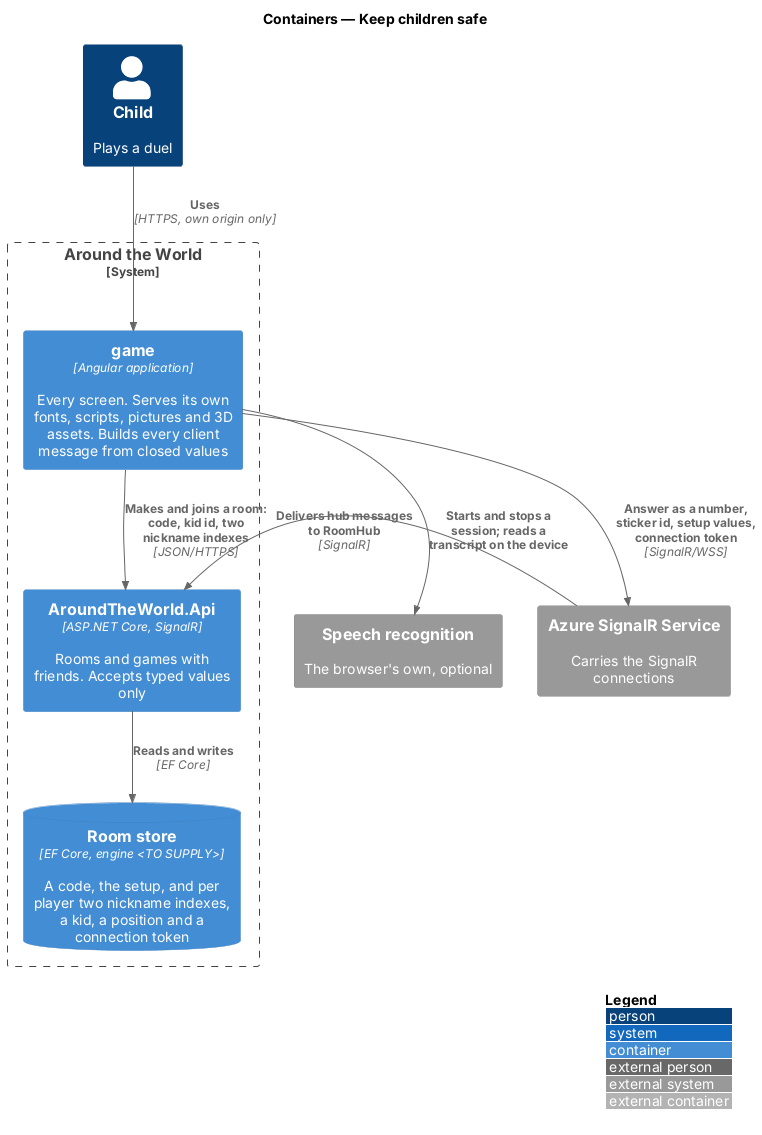
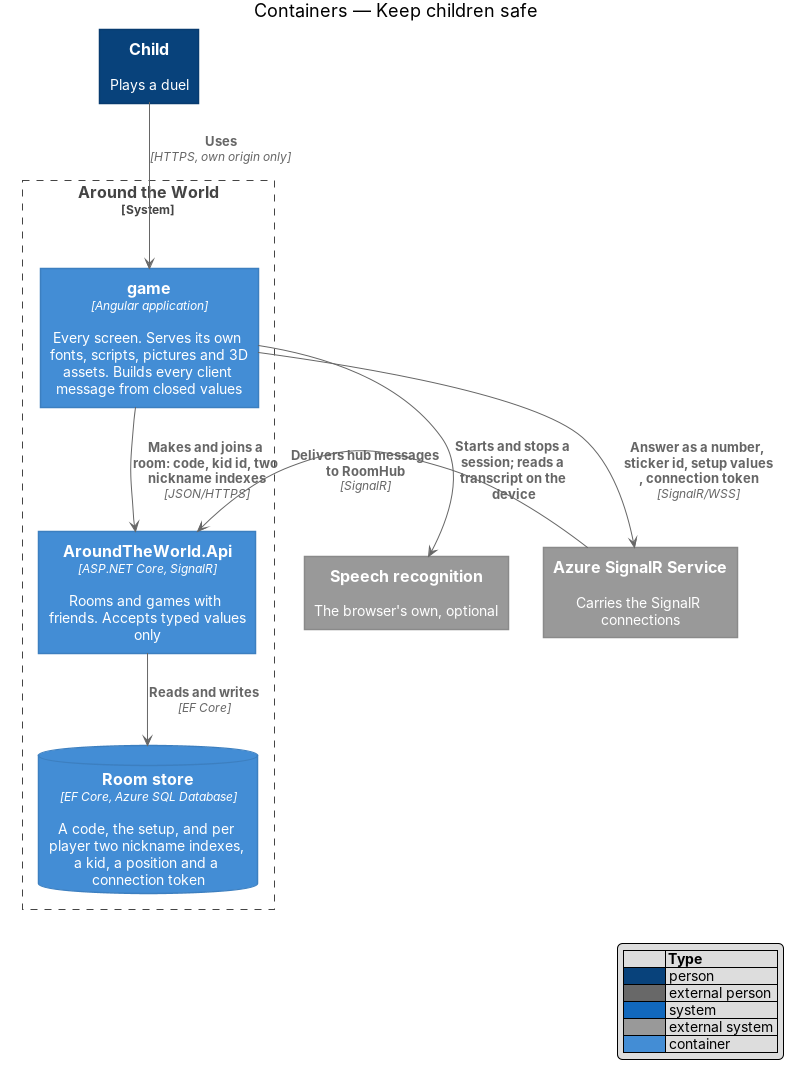
Record the scaffold's decisions and resolve its design markers
Add docs/adr with ten records: the Angular 22 workspace, the .NET 10
backend, npm, the unit test runners, the ESLint boundaries, the shape of
the Playwright fixture, the CI layout, the bundle budgets, the live
endpoint with the room store's engine and the migrations command, and
building each design-system component once in @atw/components. Resolve
the budget, engine, settings-document and migrations markers in the
platform designs, and add docs/operations/settings.md.

Claude-Session: https://claude.ai/code/session_01GLzf8nfvL3UTi3JmWhzWi4

Changed region(s): [[0.0302, 0.0, 0.9961, 0.8644], [0.7546, 0.8644, 0.9961, 1.0], [0.332, 0.0, 0.664, 0.0309]]

diff --git a/docs/detailed-designs/platform/operate-backend/README.md b/docs/detailed-designs/platform/operate-backend/README.md
@@ -53,9 +53,10 @@ The slice is not built yet. The design introduces the parts below.
   Two instances therefore show one game: either can decide an answer, and both notify the same
   group.
 
-Three points of the two-instance design are `<TO SUPPLY>`:
+The room store's engine is Azure SQL Database, through EF Core's SQL Server provider
+(`docs/adr/0009-health-and-migrations.md`). Two points of the two-instance design are
+`<TO SUPPLY>`:
 
-- the room store's engine;
 - how two instances order two answers to one duel that arrive at the same moment, so that
   exactly one wins (`L2-026` criterion 1);
 - which instance runs a room's clock (a flash card's time, the 30 seconds a spot is saved, the
@@ -76,14 +77,17 @@ criterion 2 allows no such request, and no mock decides between them.
 | `Azure:SignalR:ConnectionString` | Connection to Azure SignalR Service. Absent in a local or test run. |
 | `Frontend:Origin` | Origin of the `game` application, the only origin the CORS policy allows (`L2-044` criterion 4). |
 | Rate limits | Limits on making a room, trying codes, answers and stickers (`L2-045`). The setting names are fixed in `docs/detailed-designs/rooms/guard-room/`. |
-| Room store connection | Connection to the room store. Its form follows the engine, which is `<TO SUPPLY>`. |
+| `ConnectionStrings:RoomStore` | Connection to the room store, an Azure SQL Database. Absent in a local or test run. |
 | `OTEL_EXPORTER_OTLP_ENDPOINT` | Address to which telemetry is exported. |
 
 Each setting is read from configuration supplied by the environment. No setting's value is in
 the source, and a connection string or an access key is supplied as a secret. The change that
-adds a setting documents it in the same change. The document that lists the settings is
-`<TO SUPPLY>`: no operations document exists yet, and the first change that adds a setting adds
-it.
+adds a setting documents it in the same change, in `docs/operations/settings.md`.
+
+**Migrations.** The room store's schema changes only through EF Core migrations, which a
+command applies: `dotnet run --project src/AroundTheWorld.Api -- migrate`, run from `backend/`
+before a new version starts. `Program` runs `RoomStoreMigrator` for that command and exits; the
+API's normal start never migrates (`docs/adr/0009-health-and-migrations.md`).
 
 **Telemetry with nothing about a child (`L2-053` criteria 1 and 2).**
 
@@ -110,7 +114,9 @@ it.
 **Live and ready (`L2-053` criterion 3).**
 
 - **`HealthController`** — exposes `GET /health/live` and `GET /health/ready`, each marked as
-  open to anyone. `Live()` answers 200 with no check: an answer shows the process runs.
+  open to anyone. `Live()` answers 200 with `{"status":"live"}` and no check: an answer shows
+  the process runs. It is the one endpoint that sends no MediatR request, so that a liveness
+  probe depends on nothing but the process (`docs/adr/0009-health-and-migrations.md`).
   `Ready()` sends `CheckReadinessQuery` and answers 200 when ready and 503 when not, with no
   detail of the server.
 - **`CheckReadinessQueryHandler`** — asks each registered `IReadinessProbe` and reports ready

diff --git a/docs/adr/0006-playwright-fixture.md b/docs/adr/0006-playwright-fixture.md
@@ -1,0 +1,36 @@
+# 0006. The shape of the shared Playwright fixture
+
+- **Status:** Accepted
+- **Date:** 2026-11-26
+
+## Context
+
+The behaviour specs use no real microphone, on-device model, backend, database or network
+beyond localhost, and fail on an unexpected microphone call, an unanswered request, a request
+off localhost or a page error (`AGENTS.md`, E2E).
+
+## Decision
+
+- `frontend/e2e/fixtures/test.ts` extends Playwright's `test`; every spec imports `test` and
+  `expect` from it. Page objects in `e2e/pages/` own every selector; specs are in `e2e/specs/`.
+- An init script (`e2e/fixtures/fakes/browser-fakes.ts`) runs before the game's code and
+  replaces `SpeechRecognition`/`webkitSpeechRecognition`, `navigator.mediaDevices.getUserMedia`,
+  the microphone's permission query and Chrome's `LanguageModel`. The spec drives them through
+  the fixtures `voice` (`say`, `unsupported`), `microphone` (`grant`, `deny`) and `model`
+  (`answers`, `downloadable`, `sessions`). By default the microphone is not expected and the
+  model is unavailable, so a classmate plays from its profile.
+- The overridden `page` fixture routes every request: off localhost is refused, `/api/` and
+  `/hubs/` are answered only from the `backend` fixture (`answer`, `hub`), and any other
+  localhost request (the build, its fonts, the classroom's assets) goes through.
+- A problem is collected, not thrown, and the fixture fails the spec at its end with the list:
+  an unexpected microphone call, an unanswered request or WebSocket, a request off localhost, a
+  page error, or a console error (Angular's global error listeners log uncaught errors rather
+  than letting them reach the browser as page errors).
+- The specs run against the production build in `dist/game/browser`, served on localhost by
+  `e2e/support/serve.mjs`, on Chromium only, with traces off.
+
+## Consequences
+
+A spec that needs the backend names each answer it expects. Visual, responsive and
+accessibility sweeps get their own Playwright projects when first written, and run only when a
+person asks.

diff --git a/docs/adr/0009-health-and-migrations.md b/docs/adr/0009-health-and-migrations.md
@@ -1,0 +1,32 @@
+# 0009. The live endpoint, the room store's engine and the migrations command
+
+- **Status:** Accepted
+- **Date:** 2026-11-26
+
+## Context
+
+`docs/detailed-designs/platform/operate-backend/` fixes `GET /health/live` and
+`GET /health/ready`, with `Live()` answering 200 and checking nothing. `AGENTS.md` asks that a
+controller send one MediatR request, that a CLI command apply migrations and that the API never
+do so on startup. The room store's engine was `<TO SUPPLY>`, and migrations need one.
+
+## Decision
+
+- **Live:** `GET /health/live` answers 200 with `{"status":"live"}`. It is the one endpoint
+  that sends no MediatR request: a liveness probe answers from the process alone, with no
+  dependency that could fail it (ASP.NET Core's guidance for liveness). This departs from the
+  `AGENTS.md` rule on controllers; the proposed correction is to add "except the live endpoint"
+  to it. `GET /health/ready` sends `CheckReadinessQuery`, as designed, and arrives with
+  journey 17.
+- **Room store:** Azure SQL Database, through EF Core's SQL Server provider, as the deployed
+  system's room store. The connection string is the setting `ConnectionStrings:RoomStore`
+  (`docs/operations/settings.md`). Tests replace it with EF Core InMemory, one store per fixture.
+- **Migrations:** `dotnet run --project src/AroundTheWorld.Api -- migrate` (from `backend/`)
+  applies the room store's migrations and exits. The API's normal start never migrates. The
+  first migration arrives with the first entity, the room (journey 12).
+
+## Consequences
+
+Journey 17 measures the 50 ms target of `L2-049` criterion 3 against Azure SQL Database and
+supersedes this record if it does not hold. A deployment runs the migrate command before it
+starts the new version.

diff --git a/docs/adr/0010-design-system-components.md b/docs/adr/0010-design-system-components.md
@@ -1,0 +1,33 @@
+# 0010. Each design-system component is built once, in `@atw/components`
+
+- **Status:** Accepted
+- **Date:** 2026-11-26
+
+## Context
+
+`docs/design-system/components/` documents 47 components, each one BEM block extracted from
+the mocks, and says that each becomes one component in the Angular `components` library.
+`AGENTS.md` puts presentation in `components` and keeps the mocks' BEM classes, on which the
+end-to-end locators depend. Without a rule, a screen would copy a block's markup instead of
+using it.
+
+## Decision
+
+- One page of `docs/design-system/components/` is one component in
+  `frontend/projects/components/src/lib/<name>/`, built the first time a screen needs it:
+  selector `atw-<name>`, class `<Name>`, files `<name>.ts`, `<name>.html`, `<name>.scss`,
+  `OnPush`, default encapsulation, inputs and outputs only, no injected app service, token or
+  router.
+- Its template renders the design system's block with the same BEM classes (`block`,
+  `block__element`, `block--modifier`), and its stylesheet holds that block's rules from
+  `docs/design-system/assets/components.css`, reading tokens by role.
+- `game` and every other app use the component. A screen never re-creates a block's markup or
+  styles another component's block. Layout blocks that a page composes (`screen`, `stack`,
+  `cluster`) are components too when a screen first needs them.
+- `frontend/projects/components/README.md` keeps the mapping of every design-system page to its
+  component and status.
+
+## Consequences
+
+The first screen that needs a block builds it in `components`, with its unit test where it has
+logic, and records it in the mapping. The app shell already uses `atw-skip-link`.

diff --git a/docs/detailed-designs/platform/load-lazily-and-release/README.md b/docs/detailed-designs/platform/load-lazily-and-release/README.md
@@ -38,8 +38,9 @@ The slice is not built yet. The design introduces the parts below.
 - **`angular.json` budgets** — the production configuration of `game` declares a budget of type
   `initial` with a `maximumError`. A build whose initial bundle exceeds it fails. CI runs the
   production build, so a change that grows the initial bundle past the budget does not merge.
-  The budget's size is `<TO SUPPLY>`: no requirement states a number. A change that raises it shall state
-  its reason.
+  The budgets are 225 kB (warning) and 250 kB (error) for the `initial` bundle, and 4 kB and
+  8 kB for `anyComponentStyle`, measured raw (`docs/adr/0008-bundle-budgets.md`). A change that
+  raises one shall state its reason.
 
 **A lazy chunk per screen (`L2-047` criterion 2).**
 
@@ -155,7 +156,8 @@ criterion 5 requires a fixed limit and states no number.
 | The server decides an answer within 50 ms at the 95th percentile with 500 rooms of 8 | The handler reads and writes one room. A duration histogram records it (`docs/detailed-designs/platform/operate-backend/`). |
 | The last desk of a 24-desk tour draws within 10% of the first desk's frame rate | The bounded buffers, the disposal of each hop's transient objects and `QualityScaler` keep per-frame work constant. |
 
-Whether the 50 ms target holds depends on the room store's engine, which is `<TO SUPPLY>`. The
+Whether the 50 ms target holds depends on the room store's engine, Azure SQL Database
+(`docs/adr/0009-health-and-migrations.md`), and is measured in journey 17. The
 device and network profile that stand for "a mid-range phone on a 4G connection" in a
 measurement are `<TO SUPPLY>`.
 

diff --git a/docs/adr/0001-angular-workspace.md b/docs/adr/0001-angular-workspace.md
@@ -1,0 +1,30 @@
+# 0001. Angular 22 workspace of source libraries
+
+- **Status:** Accepted
+- **Date:** 2026-11-26
+
+## Context
+
+`AGENTS.md` asks for current Angular (standalone components, signals, `OnPush`, zoneless) in a
+multi-project workspace under `frontend/projects/`: the libraries `api`, `domain` and
+`components` and the application `game`, imported as `@atw/<library>`. No library is
+published; each exists to keep a concern apart and to be lazy-loaded on its own.
+
+## Decision
+
+- The workspace is made with Angular CLI 22.3 (`@angular/build`, esbuild), TypeScript 6.0, and
+  no `zone.js`: change detection is zoneless, which is Angular 22's default.
+- Every component sets `ChangeDetectionStrategy.OnPush`, and the CLI's schematics default to it.
+- The libraries are **source libraries**: `tsconfig.json` maps `@atw/api`, `@atw/domain` and
+  `@atw/components` to each library's `src/public-api.ts`, and the libraries have no build
+  target and no `ng-packagr`. `game` compiles them with its own code, so the build tree-shakes
+  across them and a dynamic `import()` of a library makes it a lazy chunk.
+- `strict`, `strictTemplates`, `noUnusedLocals` and `noUnusedParameters` are on.
+- `game` reads its global foundations (tokens, `@font-face`, reset, utilities) from
+  `projects/game/src/styles/`, copied from `docs/design-system/`.
+
+## Consequences
+
+- A library that one day must be published adds `ng-packagr` and a build target in its own ADR.
+- Adding a library adds its path alias, its ESLint element (`docs/adr/0005`) and its place in
+  the dependency direction of `AGENTS.md` in the same change.

diff --git a/docs/adr/0002-dotnet-backend.md b/docs/adr/0002-dotnet-backend.md
@@ -1,0 +1,29 @@
+# 0002. .NET 10 backend with MediatR 12.5, FluentValidation and EF Core 10
+
+- **Status:** Accepted
+- **Date:** 2026-11-26
+
+## Context
+
+`AGENTS.md` asks for a .NET service in clean architecture (`AroundTheWorld.Domain` <-
+`Application` <- `Infrastructure` <- `Api`), MediatR handlers, validators, EF Core and SignalR.
+.NET 10 is the current long-term support release. MediatR's releases from 13 on are under a
+commercial licence that needs a key; 12.5.0 is the last under Apache 2.0.
+
+## Decision
+
+- `backend/AroundTheWorld.slnx` targets `net10.0`; `global.json` asks for SDK 10.0.100 or a later
+  feature band of 10.0.
+- `Directory.Build.props` turns on nullable reference types, the recommended analyzers and
+  warnings as errors for every project; `Directory.Packages.props` sets every package version
+  once (central package management); `.editorconfig` holds the code style that
+  `dotnet format --verify-no-changes` checks.
+- MediatR is pinned to 12.5.0. FluentValidation 12 holds the validators, registered from the
+  Application assembly. The validation pipeline behaviour and its ProblemDetails arrive with the
+  first request that has a validator (journey 12), so they are proved by its acceptance test.
+- EF Core 10 holds the room store (`docs/adr/0009`).
+
+## Consequences
+
+- Moving past MediatR 12.5 needs a licence decision and its own ADR.
+- Moving to .NET 11 is a deliberate change of `global.json`, `Directory.Build.props` and CI.

diff --git a/docs/adr/README.md b/docs/adr/README.md
@@ -1,0 +1,19 @@
+# Architecture decision records
+
+Each record states one decision: its context, the decision and its consequences. A record is
+never edited to change its decision; a later record supersedes it. `AGENTS.md` requires a
+record for every departure from best practice and for every choice that fills a gap the
+requirements and designs leave.
+
+| # | Decision | Status |
+|---|---|---|
+| [0001](0001-angular-workspace.md) | Angular 22 workspace of source libraries, zoneless, signals and `OnPush` | Accepted |
+| [0002](0002-dotnet-backend.md) | .NET 10 backend with MediatR 12.5, FluentValidation and EF Core 10 | Accepted |
+| [0003](0003-npm.md) | npm is the package manager | Accepted |
+| [0004](0004-unit-test-runners.md) | Vitest for the frontend's unit tests, xUnit v3 for the backend's tests | Accepted |
+| [0005](0005-eslint-boundaries.md) | `eslint-plugin-boundaries` enforces the dependency direction | Accepted |
+| [0006](0006-playwright-fixture.md) | The shape of the shared Playwright fixture | Accepted |
+| [0007](0007-ci-layout.md) | One CI workflow of two parallel jobs | Accepted |
+| [0008](0008-bundle-budgets.md) | The production budgets of `game` | Accepted |
+| [0009](0009-health-and-migrations.md) | The live endpoint, the room store's engine and the migrations command | Accepted |
+| [0010](0010-design-system-components.md) | Each design-system component is built once, in `@atw/components` | Accepted |

diff --git a/docs/operations/settings.md b/docs/operations/settings.md
@@ -1,0 +1,25 @@
+# Settings a deployed system needs
+
+Each setting is read from configuration supplied by the environment (in ASP.NET Core, an
+environment variable uses `__` for `:`). No value is in the source; a connection string or an
+access key is supplied as a secret. A change that adds a setting documents it here in the same
+change (`AGENTS.md`, `L2-052` criterion 4).
+
+## Backend (`AroundTheWorld.Api`)
+
+| Setting | Environment variable | Purpose | Added by |
+|---|---|---|---|
+| `ConnectionStrings:RoomStore` | `ConnectionStrings__RoomStore` | Connection to the room store, an Azure SQL Database ([ADR 0009](../adr/0009-health-and-migrations.md)). Absent in a local or test run, where no room store is used. | Journey 01 |
+
+The settings that `docs/detailed-designs/platform/operate-backend/` names for later journeys
+(`Azure:SignalR:ConnectionString`, `Frontend:Origin`, the rate limits and
+`OTEL_EXPORTER_OTLP_ENDPOINT`) join this table with the change that first reads them.
+
+## Deploying
+
+1. Run `dotnet run --project src/AroundTheWorld.Api -- migrate` (from `backend/`, or the
+   published `AroundTheWorld.Api migrate`) with `ConnectionStrings__RoomStore` set. It applies
+   the room store's migrations and exits.
+2. Start the new version. It never migrates on startup.
+3. The hosting platform's liveness probe asks `GET /health/live`, which answers 200 while the
+   process runs.

diff --git a/docs/detailed-designs/rooms/decide-game-on-server/README.md b/docs/detailed-designs/rooms/decide-game-on-server/README.md
@@ -115,7 +115,7 @@ Backend:
 - **`DeleteIdleRoomsCommandHandler`** — deletes each room whose `LastActivityAt` is 10 minutes
   old or more **(to confirm)** and announces `RoomClosed` to it (`L2-027` criterion 4). Each
   handler that acts for a player sets `Room.LastActivityAt`.
-- **Room store** — reached through `IAppDbContext` with EF Core; its engine is `<TO SUPPLY>`.
+- **Room store** — reached through `IAppDbContext` with EF Core; its engine is Azure SQL Database (`docs/adr/0009-health-and-migrations.md`).
   The room and its tour live there, so that two instances of the backend decide the same game
   (`L2-052` criterion 2, `platform/operate-backend`).
 
@@ -146,7 +146,7 @@ the server's time to decide an answer (`L2-049` criterion 3), is what meets the 
 Nine points are undecided:
 
 - How the answers of one room are decided one at a time when they reach two instances of the
-  backend is `<TO SUPPLY>` with the room store's engine. `L2-026` criterion 1 depends on it.
+  backend is `<TO SUPPLY>`. `L2-026` criterion 1 depends on it.
 - Whether the server's `Tour` and `Duel` and the device's share one written rule set, or are two
   implementations kept equal by tests, is `<TO SUPPLY>`.
 - Who may choose "Play again" in a room, and what the other players see until it is chosen, are

diff --git a/docs/adr/0004-unit-test-runners.md b/docs/adr/0004-unit-test-runners.md
@@ -1,0 +1,24 @@
+# 0004. Vitest for the frontend, xUnit v3 for the backend
+
+- **Status:** Accepted
+- **Date:** 2026-11-26
+
+## Context
+
+Unit tests run locally, never in CI (`AGENTS.md`). Time-driven rules advance a fake clock.
+
+## Decision
+
+- **Frontend:** Vitest through Angular's `@angular/build:unit-test` builder, with jsdom, as the
+  CLI makes it. `npm test` runs every project that has a `test` target. A library borrows
+  `game`'s build options (`buildTarget: game:build:development`) because it has no build target
+  of its own (`docs/adr/0001`). A library gets its `test` target with its first spec, since the
+  builder fails a project with no spec. Vitest's fake timers advance the clock.
+- **Backend:** xUnit v3 with `Microsoft.NET.Test.Sdk`. The acceptance tests run through the API
+  on `WebApplicationFactory`'s in-memory test server with EF Core InMemory and
+  `FakeTimeProvider` (`AroundTheWorld.Api.Tests`). A rule with a table of cases gets its own
+  test project for the domain type or handler when it is first written.
+
+## Consequences
+
+CI runs the backend's acceptance tests (they are the critical path) and no unit test.

diff --git a/docs/adr/0007-ci-layout.md b/docs/adr/0007-ci-layout.md
@@ -1,0 +1,26 @@
+# 0007. One CI workflow of two parallel jobs
+
+- **Status:** Accepted
+- **Date:** 2026-11-26
+
+## Context
+
+CI is always green, finishes in under 5 minutes, and runs lint, format, the production builds,
+and one critical acceptance path per feature; unit tests run locally (`AGENTS.md`, CI). Pull
+requests are stacked, so a pull request's base is often another journey's branch.
+
+## Decision
+
+`.github/workflows/ci.yml` runs on every `pull_request`, whatever its base, and on a push to
+`main`, and cancels a superseded run. Two jobs run in parallel, each with a 5-minute timeout:
+
+- **Frontend:** `npm ci`, format, lint, the end-to-end type check, the production build with its
+  budgets, the Chromium headless shell, then the Playwright behaviour specs.
+- **Backend:** format, a Release build with warnings as errors, then the acceptance tests.
+
+`node tools/verify/verify.mjs` runs the same checks plus the frontend's unit tests locally.
+
+## Consequences
+
+A check that becomes slow or flaky is fixed or removed, never retried. A new feature adds its
+one critical acceptance path, not its whole suite.
